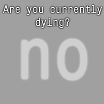
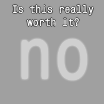
v2.31: 7/16/23b

Changed region(s): [[0.0, 0.0288, 1.0, 0.2885]]

diff --git a/index.html b/index.html
@@ -262,7 +262,6 @@
 				<div id="tdboosts"></div>
 				<div id="boosts"></div>
 				<div id="galaxies">You have made x Antimatter galaxies.</div>
-				<div id="spreadingCancer"></div>
 				<br>
 				<div id="gsStatistics">
 					<div id="sacrificed"></div>
@@ -541,7 +540,7 @@
 					</tr>
 					<tr id="achRow4">
 						<td id="r41">
-							<div id="Spreading Cancer" class="achievement achievementlocked" style="background-image: url(images/46.png)"><br></div>
+							<div id="Spreading Nerd" class="achievement achievementlocked" style="background-image: url(images/placeholder.png)">Spreading Nerd</div>
 						</td>
 						<td>
 							<div id="Supersanic" class="achievement achievementlocked" style="background-image: url(images/26.png)" ach-tooltip="Have antimatter/sec exceed your current antimatter above 1 Tg (1e63)."><br></div>
@@ -588,7 +587,7 @@
 							<div id="Gift from the Gods" class="achievement achievementlocked" style="background-image: url(images/39.png)" ach-tooltip="Complete the Eighth Dimension Autobuyer challenge in 3 minutes or less. Reward: Dimensional Sacrifice is a lot stronger."><br></div>
 						</td>
 						<td>
-							<div id="Is this hell?" class="achievement achievementlocked" style="background-image: url(images/40.png)"><br></div>
+							<div id="Is this hell?" class="achievement achievementlocked" style="background-image: url(images/placeholder.png)">Is this hell?</div>
 						</td>
 					</tr>
 					<tr id="achRow6">
@@ -924,7 +923,7 @@
 							<div id="No dilation means no production." class="achievement achievementlocked" style="background-image: url(images/placeholder.png)">No dilation means no production.</div>
 						</td>
 						<td>
-							<div id="I don't want you to live anymore." class="achievement achievementlocked" style="background-image: url(images/134.png)"></div>
+							<div id="I am not interested..." class="achievement achievementlocked" style="background-image: url(images/placeholder.png)">I am not interested...</div>
 						</td>
 					</tr>
 					<tr id="achRowng3p4">
@@ -950,7 +949,7 @@
 							<div id="Stop blocking me!" class="achievement achievementlocked" style="background-image: url(images/141.png)"></div>
 						</td>
 						<td>
-							<div id="Are you currently dying?" class="achievement achievementlocked" style="background-image: url(images/142.png)"></div>
+							<div id="Is this really worth it?" class="achievement achievementlocked" style="background-image: url(images/142.png)"></div>
 						</td>
 					</tr>
 					<tr id="achRowng3p5">
@@ -1002,7 +1001,7 @@
 							<div id="Will it be enough?" class="achievement achievementlocked" style="background-image: url(images/157.png)"></div>
 						</td>
 						<td>
-							<div id="Please answer me why you are dying." class="achievement achievementlocked" style="background-image: url(images/placeholder.png)">Please answer me why you are dying.</div>
+							<div id="Please answer me why." class="achievement achievementlocked" style="background-image: url(images/placeholder.png)">Please answer me why.</div>
 						</td>
 					</tr>
 					<tr id="achRowng3p7">
@@ -3905,7 +3904,7 @@
 			<br><br><hr>
 
 			<b>(NG+3 v2.31: Ghostify Respecced)</b><br>
-			<b class="red">(Beta: 7/16/23 Build)</b><br>
+			<b class="red">(Beta: 7/16/23b Build)</b><br>
 			By <a href="https://aarextiaokhiao.github.io/">Aarex</a>, pg132, and usavictor.
 			<br><br>
 

diff --git a/javascripts/ach/ach-tooltips.js b/javascripts/ach/ach-tooltips.js
@@ -54,7 +54,7 @@ function setR3Tooltip(){
 
 function setR4Tooltip(){
 	// Row 4 (6/8)
-	let cancer = el("Spreading Cancer");
+	let nerd = el("Spreading Nerd");
 	let sanic = el("Supersanic")
 	let zero = el("Zero Deaths");
 	//r44/////
@@ -65,7 +65,7 @@ function setR4Tooltip(){
 
 	//ACHIEVEMENT ROW 4
 	sanic.setAttribute('ach-tooltip', "Get over " + formatValue(player.options.notation, 1e63, 0, 0) + " antimatter" + (inNGM(4) ? " and unlock new galaxy upgrades at " + formatValue(player.options.notation, 1e666, 0, 0) + " antimatter" : "") + ".")
-	cancer.setAttribute('ach-tooltip', "Buy " + (!aarMod.newGameMinusVersion ? "ten" : "10,000") + " Galaxies in total while using Cancer notation."+(inOnlyNGM(2)?" Reward: Gain a multiplier to IP based on the number of galaxies bought in Cancer Notation.":""))
+	nerd.setAttribute('ach-tooltip', "Buy " + (!aarMod.newGameMinusVersion ? "ten" : "10,000") + " Galaxies in total while using Emoji notation."+(inOnlyNGM(2)?" Reward: Double Infinity Points.":""))
 	zero.setAttribute('ach-tooltip',"Big Crunch without Dimension Shifts, Boosts or Galaxies in a challenge. Reward: Dimensions 1-4 are 25% stronger"+(inOnlyNGM(2) ? " and you get 1.25x more IP" : "") + (inNGM(4) ? " and gain more passive GP gain based on GP." : "."))
 	potato.setAttribute('ach-tooltip', "Get more than " + formatValue(player.options.notation, 1e29, 0, 0) + " ticks per second. Reward: Reduce the starting tick interval by 2%.");
 	dimensional.setAttribute('ach-tooltip', "Reach " + formatValue(player.options.notation, 1e12, 0, 0) + " of all Normal Dimensions, except for the 8th Dimension.");
@@ -356,7 +356,7 @@ function setR17Tooltip(){
 	//ng3p35/////
 	let cantGet = el("I can’t get my multipliers higher!")
 	let noDil = el("No dilation means no production.")
-	let dontWant = el("I don't want you to live anymore.")
+	let dontWant = el("I am not interested...")
 
 	//ACHIEVEMENT ROW 17
 	internal.setAttribute('ach-tooltip', "Reach " + shortenCosts(E("1e333")) + " MA without having 2nd Meta Dimensions and Meta-Dimension Boosts. Reward: 1st Meta Dimensions are stronger based on meta antimatter.")
@@ -376,7 +376,7 @@ function setR18Tooltip(){
 	//ng3p45/////
 	//ng3p46/////
 	let stop = el("Stop blocking me!")
-	let dying = el("Are you currently dying?")
+	let dying = el("Is this really worth it?")
 
 	//ACHIEVEMENT ROW 18
 	notrelative.setAttribute('ach-tooltip', "Get " + shorten(pow10(411))+" dilated time without gaining tachyon particles. Reward: You gain more DT based on the amount of Nanorewards.")
@@ -415,7 +415,7 @@ function setR20Tooltip(){
 	//ng3p65/////
 	let oppose = el("I rather oppose the theory of everything")
 	let willenough = el("Will it be enough?")
-	let pls = el("Please answer me why you are dying.")
+	let pls = el("Please answer me why.")
 
 	let willenoughReward = [] // for the achievement "Will it be enough?"
 	willenoughReward.push("keep Replicanti on Eternity")

diff --git a/javascripts/core/format.js b/javascripts/core/format.js
@@ -922,8 +922,8 @@ var notationArray = [
 ]
 
 function updateNotationOption() {
-	var notationMsg = "Notation: " + (player.options.notation == "Emojis" ? "Cancer" : player.options.notation)
-	var commasMsg = (player.options.commas == "Emojis" ? "Cancer" : player.options.commas) + " on exponents"
+	var notationMsg = "Notation: " + player.options.notation
+	var commasMsg = player.options.commas + " on exponents"
 	el("notation").innerHTML = "<p style='font-size:15px'>Notations</p>" + notationMsg + "<br>" + commasMsg
 	el("chosenNotation").textContent = player.options.notation=="AF5LN"?"Notation: Aarex's Funny 5-letter Notation":notationMsg
 	el("chosenCommas").textContent = player.options.commas=="AF5LN"?"Aarex's Funny 5-letter Notation on exponents":commasMsg
@@ -995,7 +995,7 @@ function openAdvNotations() {
 		row.innerHTML = "<button class='storebtn' style='width:160px; height: 40px' onclick='setCommas(1)'>Same notation on exponents</button>"
 		
 		for (n = 0; n < notationArray.length; n++) {
-			var name = notationArray[n] == "Emojis" ? "Cancer" : notationArray[n]
+			var name = notationArray[n]
 			row = notationsTable.insertRow(n)
 			row.innerHTML = "<button class='storebtn' id='select" + name + "' style='width:160px; height: 40px' onclick='setAdvNotation(" + n + ")' ach-tooltip='Examples: " + formatValue(notationArray[n], 4.16e19, 2, 2) + ", " + formatValue(notationArray[n], E("4.12e619"), 2, 2, true) + "'>Select " + name + "</button>"
 			row = commasTable.insertRow(n + 2)
@@ -1030,7 +1030,7 @@ function openNotationOptions() {
 		el("psiSide").textContent = "Non-first arguments on " + (player.options.psi.side == "r" ? "right" : "left") + " side"
 		var letters = [null, 'E', 'F', 'G', 'H']
 		el("psiLetter").textContent = (player.options.psi.letter[0] ? "Force " + letters[player.options.psi.letter[0]] : "Automatically choose letter")
-		el("chosenSubNotation").textContent = "Sub-notation: " + (player.options.spazzy.subNotation == "Emojis" ? "Cancer" : player.options.spazzy.subNotation)
+		el("chosenSubNotation").textContent = "Sub-notation: " + player.options.spazzy.subNotation
 		el("useDe").checked = player.options.aas.useDe
 		el("useMyr").checked = player.options.standard.useMyr
 	} else {
@@ -1112,6 +1112,6 @@ function switchNotationOption(notation,id) {
 function switchSubNotation(id) {
 	if (player.options.spazzy.subNotation == notationArray[id]) return
 	player.options.spazzy.subNotation = notationArray[id]
-	el("chosenSubNotation").textContent = "Sub-notation: " + (player.options.spazzy.subNotation == "Emojis" ? "Cancer" : player.options.spazzy.subNotation)
+	el("chosenSubNotation").textContent = "Sub-notation: " + player.options.spazzy.subNotation
 	onNotationChange()
 }

diff --git a/javascripts/mods/ngp3/core.js b/javascripts/mods/ngp3/core.js
@@ -1,6 +1,6 @@
 //VERSION: 2.31
 let ngp3_ver = 2.31
-let ngp3_build = 20230716
+let ngp3_build = 20230716.01
 function doNGP3Updates() {
 	if (!aarMod.ngp3_build) aarMod.ngp3_build = 0
 	if (aarMod.ngp3_build < 20221230) quSave.multPower = 0
@@ -352,7 +352,7 @@ function ngP3AchieveCheck() {
 	if (player.money.log10() >= 7.88e13 && quSave.pairedChallenges.completed == 0) giveAchievement("The truth of anti-challenged")
 	if (player.money.log10() >= 6.2e11 && player.currentEternityChall == "eterc11") giveAchievement("I can’t get my multipliers higher!")
 	if (player.replicanti.amount.log10() >= 2e6 && player.dilation.tachyonParticles.eq(0)) giveAchievement("No dilation means no production.")
-	if (player.infinityPoints.gte(E_pow(Number.MAX_VALUE, 1000)) && ableToGetRid5) giveAchievement("I don't want you to live anymore.")
+	if (player.infinityPoints.gte(E_pow(Number.MAX_VALUE, 1000)) && ableToGetRid5) giveAchievement("I am not interested...")
 	if (player.dilation.dilatedTime.log10() >= 411 && quSave.notrelative) giveAchievement("Time is not relative")
 	if (!hasAch("ng3p42")) {
 		for (d = 2; d < 9; d++) {
@@ -363,7 +363,7 @@ function ngP3AchieveCheck() {
 	if (player.money.log10() >= 8e6 && inQC(6) && inQC(8)) giveAchievement("Impossible expectations")
 	if (player.timestudy.theorem >= 1.1e7 && quSave.wasted) giveAchievement("Studies are wasted")
 	if (quSave.replicants.requirement.gte("1e12500000")) giveAchievement("Stop blocking me!")
-	if (player.infinityPoints.gte(pow10(2.75e5)) && ableToGetRid6) giveAchievement("Are you currently dying?")
+	if (player.infinityPoints.gte(pow10(2.75e5)) && ableToGetRid6) giveAchievement("Is this really worth it?")
 	if (nfSave.rewards >= 21 && noTree) giveAchievement("But I don't want to grind!")
 	if (player.replicanti.amount.log10() >= (mod.udp ? 268435456 : 36e6)) giveAchievement("Will it be enough?")
 	if (player.options.secrets && player.options.secrets.ghostlyNews && !player.options.newsHidden) giveAchievement("Two tickers")
@@ -388,7 +388,7 @@ function ngP3AchieveCheck() {
 	if (beSave.eternalMatter.gte(9.999999e99)) giveAchievement("This achievement doesn't exist 4")
 	if (ghSave.milestones == 16) giveAchievement("I rather oppose the theory of everything")
 	if (inQC(6) && inQC(8) && !bigRipped() && player.money.e >= 4e7) giveAchievement("Really?")
-	if (ableToGetRid8 && player.infinityPoints.log10() >= 9.5e5) giveAchievement("Please answer me why you are dying.")
+	if (ableToGetRid8 && player.infinityPoints.log10() >= 9.5e5) giveAchievement("Please answer me why.")
 
 	if (PHOTON.unlocked()) giveAchievement("Progressing as a Ghost")
 	if (bigRipped() && player.eternityPoints.e >= 1e5) giveAchievement("Underchallenged")

diff --git a/javascripts/ach/achievements.js b/javascripts/ach/achievements.js
@@ -23,7 +23,7 @@ const allAchievements = {
 	r36 : "Claustrophobic",
 	r37 : "That's fast!",
 	r38 : "I don't believe in Gods",
-	r41 : "Spreading Cancer",
+	r41 : "Spreading Nerd",
 	r42 : "Supersanic",
 	r43 : "Zero Deaths",
 	r44 : "Over in 30 seconds",
@@ -143,7 +143,7 @@ const allAchievements = {
 	ng3p35 : "An ant office?",
 	ng3p36 : "I can’t get my multipliers higher!",
 	ng3p37 : "No dilation means no production.",
-	ng3p38 : "I don't want you to live anymore.",
+	ng3p38 : "I am not interested...",
 
 	ng3p41 : "Time is not relative",
 	ng3p42 : "ERROR 404: DIMENSIONS NOT FOUND",
@@ -152,7 +152,7 @@ const allAchievements = {
 	ng3p45 : "Do protons decay?",
 	ng3p46 : "Hardly marked",
 	ng3p47 : "Stop blocking me!",
-	ng3p48 : "Are you currently dying?",
+	ng3p48 : "Is this really worth it?",
 
 	ng3p51 : "To the new dimension!",
 	ng3p52 : "Quantum doesn't take so long",
@@ -170,7 +170,7 @@ const allAchievements = {
 	ng3p65 : "But I don't want to grind!",
 	ng3p66 : "I rather oppose the theory of everything",
 	ng3p67 : "Will it be enough?",
-	ng3p68 : "Please answer me why you are dying.",
+	ng3p68 : "Please answer me why.",
 
 	ng3p71 : "Progressing as a Ghost",
 	ng3p72 : "Underchallenged",

diff --git a/javascripts/mods/ngp3/quantum/tod.js b/javascripts/mods/ngp3/quantum/tod.js
@@ -116,7 +116,7 @@ function getBranchSpeedText(){
 	if (E(getTreeUpgradeEffect(3)).gt(1)) text += "Tree Upgrade 3: " + shorten(getTreeUpgradeEffect(3)) + "x, "
 	if (E(getTreeUpgradeEffect(5)).gt(1)) text += "Tree Upgrade 5: " + shorten(getTreeUpgradeEffect(5)) + "x, "
 	if (hasNU(4)) text += "Neutrino Upgrade 4: " + shorten(NT.eff("upg", 4)) + "x, "
-	if (hasAch("ng3p48") && player.meta.resets) text += "'Are you currently dying?' reward: " + shorten(Math.sqrt(player.meta.resets + 1)) + "x, "
+	if (hasAch("ng3p48") && player.meta.resets) text += "'Is this really worth it?' reward: " + shorten(Math.sqrt(player.meta.resets + 1)) + "x, "
 	if (hasNanoReward("decay_exp")) text += "7th Nanobenefit: ^" + shorten(getNanorewardEff("decay_exp")) + ", "
 	if (text == "") return "No multipliers currently"
 	return text.slice(0, text.length-2)

diff --git a/javascripts/core/stats.js b/javascripts/core/stats.js
@@ -6,9 +6,6 @@ function displayMainStats() {
 	el("boosts").style.display = showBoosts ? '' : 'none'
 	if (showBoosts) el("boosts").textContent = 'You have performed '+getFullExpansion(player.tickspeedBoosts)+' Tickspeed Boosts.'
 	el("galaxies").textContent = 'You have ' + getFullExpansion(player.galaxies) + ' Antimatter Galaxies.'
-	var showCancer = player.spreadingCancer > 0 && player.galacticSacrifice
-	el("spreadingCancer").style.display = showCancer ? '' : 'none'
-	if (showCancer) el("spreadingCancer").textContent = 'You have made '+getFullExpansion(player.spreadingCancer)+' total galaxies while using Cancer notation.'
 	el("totalTime").textContent = "You have played for " + timeDisplay(player.totalTimePlayed) + "."
 }
 

diff --git a/javascripts/ach/achieve_check.js b/javascripts/ach/achieve_check.js
@@ -182,7 +182,7 @@ function checkOtherPreNGp3Achieve(){
 	if (player.galaxies >= 540 && player.replicanti.galaxies == 0) giveAchievement("Unique snowflakes")
 	if (player.dilation.active) giveAchievement("I told you already, time is relative")
 	if (player.resets >= 10) giveAchievement("Boosting to the max")
-	if (player.spreadingCancer >= 10) giveAchievement("Spreading Cancer")
+	if (player.spreadingCancer >= 10) giveAchievement("Spreading Nerd")
 	if (player.spreadingCancer >= 1000000) giveAchievement("Cancer = Spread")
 	if (player.infinitied >= 10) giveAchievement("That's a lot of infinites");
 	if (player.break) giveAchievement("Limit Break")

diff --git a/javascripts/inf/infinity.js b/javascripts/inf/infinity.js
@@ -130,7 +130,7 @@ function getIPMult() {
 		if (hasAch("r93")) mult = mult.mul(4)
 		if (hasAch("r43")) mult = mult.mul(1.25)
 		if (hasAch("r55")) mult = mult.mul(Math.min(Math.log10(Math.max(6000 / player.bestInfinityTime, 10)), 10))
-		if (hasAch("r41")) mult = mult.mul(Math.pow(Math.log10(Math.max(player.spreadingCancer, 10)), .05))
+		if (hasAch("r41")) mult = mult.mul(2)
 		if (hasAch("r51")) {
 			let galaxies = Math.max((player.galaxies + player.replicanti.galaxies + player.dilation.freeGalaxies), 0) // just in case
 			if (galaxies < 5) mult = mult.mul(Math.max(galaxies, 1))

diff --git a/javascripts/core/load_functions.js b/javascripts/core/load_functions.js
@@ -477,7 +477,7 @@ function dov7tov10(){
 	el(inERS?"r22":"r35").appendChild(el("Don't you dare sleep"))
 	el(inERS?"r35":"r76").appendChild(el("One for each dimension"))
 	el(inERS?"r41":"r22").appendChild(el("Fake News"))
-	el(inERS?"r76":"r41").appendChild(el("Spreading Cancer"))
+	el(inERS?"r76":"r41").appendChild(el("Spreading Nerd"))
 	el("Universal harmony").style["background-image"]="url(images/"+(!mod.ngp3?104:"104-ngp3")+".png)"
 	el("Infinite time").style["background-image"]="url(images/"+(inERS?79:69)+".png)"
 

diff --git a/javascripts/core/newsticker.js b/javascripts/core/newsticker.js
@@ -396,7 +396,7 @@ newsArray = [//always true
 ["Remember the good old days with no softcaps... well the new devs came in and put in too many!", true, "am193"],
 
 /* v2.31 */
-["[placeholder]", false, "am78"],
+["Some got redacted for appropriately inconvenience of antimatter. Apparently, it comes from Ninth Dimension.", true, "am78"],
 ["[placeholder]", false, "am123"],
 ["[placeholder]", false, "am142"],
 ["[placeholder]", false, "am149"],
